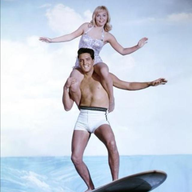
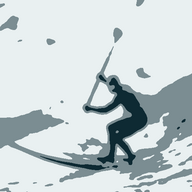
Nieuw app-icoon: geabstraheerde golfsup-foto
Claude-Session: https://claude.ai/code/session_01KtumLTQ17fNhjgLyuJ666t

diff --git a/index.html b/index.html
@@ -11,8 +11,9 @@
 <meta name="apple-mobile-web-app-status-bar-style" content="black-translucent">
 <meta name="apple-mobile-web-app-title" content="Golfsup">
 <link rel="manifest" href="manifest.webmanifest">
-<link rel="icon" href="icon-192.png">
-<link rel="apple-touch-icon" href="icon-192.png">
+<link rel="icon" type="image/png" sizes="32x32" href="favicon-32.png">
+<link rel="icon" type="image/png" sizes="192x192" href="icon-192.png">
+<link rel="apple-touch-icon" sizes="180x180" href="apple-touch-icon.png">
 <link rel="preconnect" href="https://fonts.gstatic.com" crossorigin>
 <link rel="stylesheet" href="https://fonts.googleapis.com/css2?family=Outfit:wght@400;600;700&display=swap">
 <style>

diff --git a/sw.js b/sw.js
@@ -1,6 +1,6 @@
 // Service worker: app-bestanden bewaren voor offline openen; gegevens altijd eerst van het netwerk.
-const CACHE = "golfsup-v19";
-const SHELL = ["./", "./index.html", "./manifest.webmanifest", "./icon-192.png", "./icon-512.png", "./bg.jpg", "./alert2.jpg"];
+const CACHE = "golfsup-v20";
+const SHELL = ["./", "./index.html", "./manifest.webmanifest", "./icon-192.png", "./icon-512.png", "./apple-touch-icon.png", "./favicon-32.png", "./bg.jpg", "./alert2.jpg"];
 
 self.addEventListener("install", (e) => {
   e.waitUntil(caches.open(CACHE).then((c) => c.addAll(SHELL)).then(() => self.skipWaiting()));
